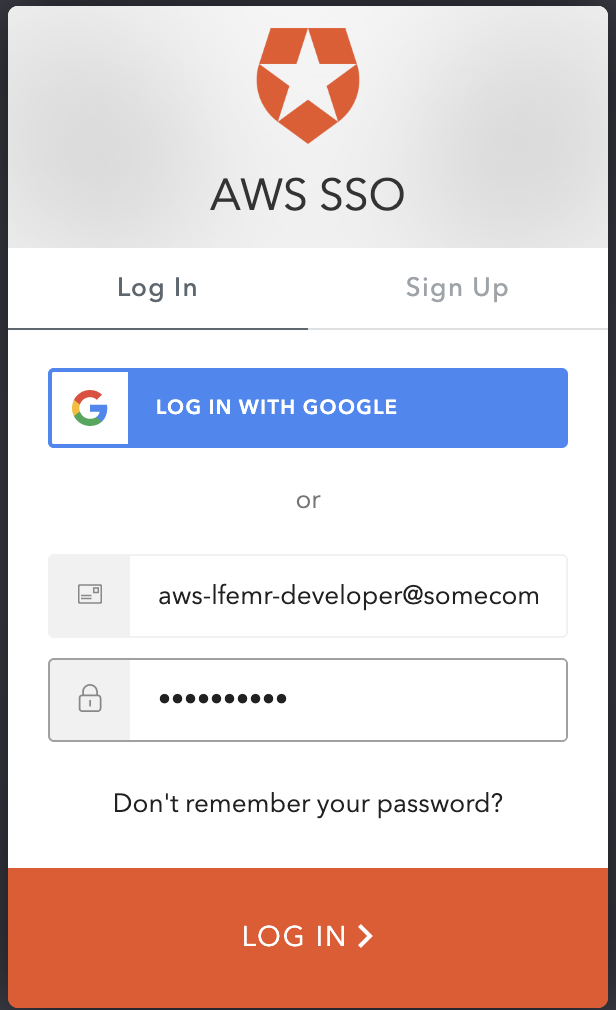
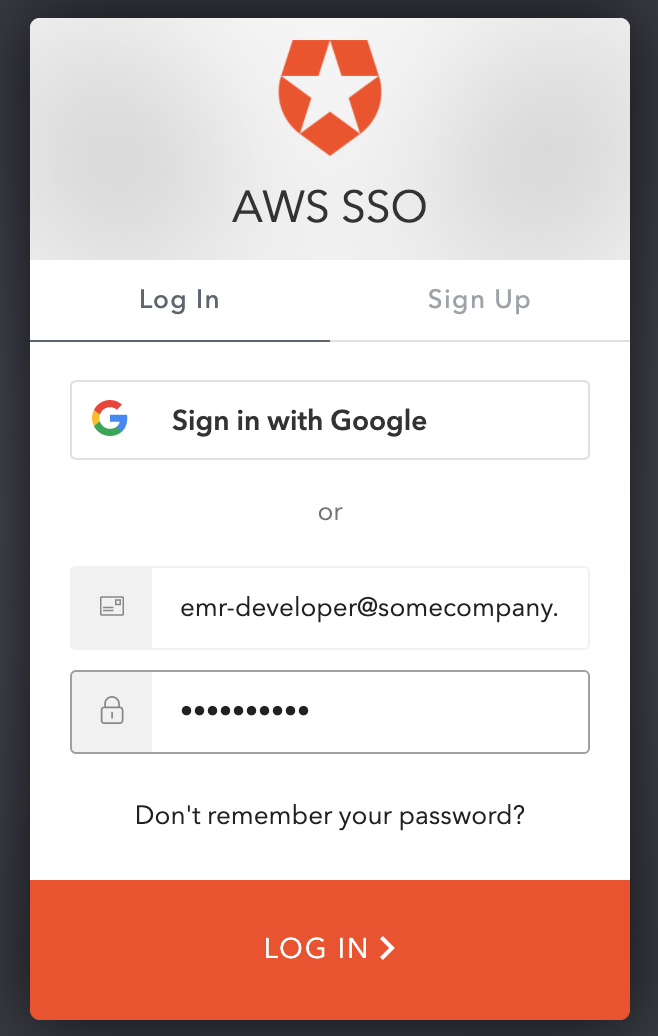
Updated screenshot, fixed Okta case-sensitivity issue, updated EMR name based on IdP

diff --git a/website/content/60-advanced/601-emr-integration/6011-trust/60111-okta/601111-saml2.md b/website/content/60-advanced/601-emr-integration/6011-trust/60111-okta/601111-saml2.md
@@ -24,8 +24,8 @@ autoNav = true
                <li>Now, go to the <b>Attribute Statements</b> section and add these three attribute statements as shown below. Make sure to replace <b style="color:red">account-id</b> with your AWS AccountId.
                    <ol style="text-align: left">
                        <li><b>Name</b>: https://aws.amazon.com/SAML/Attributes/Role<br/><b>Value</b>: arn:aws:iam::<b style="color:red">account-id</b>:role/LF-SAML-Role,arn:aws:iam::<b style="color:red">account-id</b>:saml-provider/oktaSAMLProvider</li>
-                       <li><b>Name</b>: https://aws.amazon.com/SAML/Attributes/RoleSessionName<br/><b>Value</b>: user.firstname </li>
-                       <li><b>Name</b>: https://glue.amazon.com/SAML/Attributes/UserName<br/><b>Value</b>:  user.firstname </li>
+                       <li><b>Name</b>: https://aws.amazon.com/SAML/Attributes/RoleSessionName<br/><b>Value</b>: user.firstName </li>
+                       <li><b>Name</b>: https://glue.amazon.com/SAML/Attributes/UserName<br/><b>Value</b>:  user.firstName </li>
                     </ol>
                    <img src="/images/okta-samlsettings2.png" style="margin:15px 0px; border:1px solid black"/></li>
            </ul></li>
